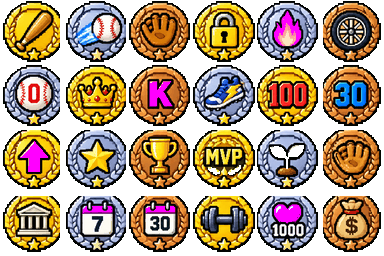
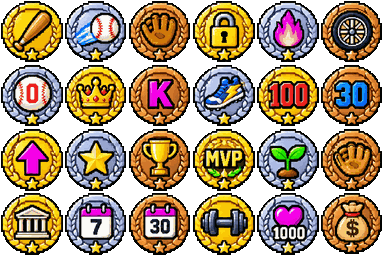
손잡다 야구: 선수마다 정해진 얼굴(경기 상자), 우리 센터 팀 선수 얼굴 꾸미기·사진, 배지 그림 다시 자르기, 캐시 v88
Claude-Session: https://claude.ai/code/session_01AtpkBHbF1Q23UFzgPgc2M4

diff --git a/baseball/js/center.js b/baseball/js/center.js
@@ -32,7 +32,7 @@ function centerHomeScreen(){
     { n:2, t:`줄인 이름: ${c.short}`, s:'점수판과 중계에서 부르는 짧은 이름입니다. 예: 센터', act: v => go(() => textScreen('줄인 이름', c.short, 6, t => { c.short = t; }, centerHomeScreen), v) },
     { n:3, t:`팀 색: ${colorName(c.color)}`, s:'유니폼과 점수판 색입니다.', act: () => { const i = CENTER_COLORS.findIndex(x => x[1] === c.color); c.color = CENTER_COLORS[(i + 1) % CENTER_COLORS.length][1]; stay(`팀 색 ${colorName(c.color)}`); } },
     { n:4, t:`엠블럼: ${c.emblem == null ? '이름 첫 글자' : `${TEAMS[c.emblem].short} 그림`}`, hide: !VIEW.gfx, s:'화면 보며 하기에서 팀 표시로 쓰는 그림입니다.', act: () => { c.emblem = c.emblem == null ? 0 : c.emblem >= 9 ? null : c.emblem + 1; stay(`엠블럼 ${c.emblem == null ? '이름 첫 글자' : TEAMS[c.emblem].short + ' 그림'}`); } },
-    { n:11, key:'embimg', t: c.embImg ? '엠블럼 사진 바꾸기' : '엠블럼 사진 넣기', hide: !VIEW.gfx, s:'갖고 있는 그림 파일을 엠블럼으로 씁니다. 가운데를 정사각형으로 잘라 이 기기에만 저장합니다.', act: () => centerPickImage(c) },
+    { n:11, key:'embimg', t: c.embImg ? '엠블럼 사진 바꾸기' : '엠블럼 사진 넣기', hide: !VIEW.gfx, s:'갖고 있는 그림 파일을 엠블럼으로 씁니다. 가운데를 정사각형으로 잘라 이 기기에만 저장합니다.', act: () => centerPickImage(c, 'embImg', '엠블럼 사진을 넣었습니다.') },
     { n:12, key:'embdel', t:'엠블럼 사진 빼기', hide: !VIEW.gfx || !c.embImg, act: () => { delete c.embImg; stay('엠블럼 사진을 뺐습니다.'); } },
     { n:5, t:`팀 스타일: ${STYLES[c.style].name}`, s: STYLES[c.style].desc, act: () => { const k = Object.keys(STYLES); c.style = k[(k.indexOf(c.style) + 1) % k.length]; stay(`팀 스타일 ${STYLES[c.style].name}`); } },
     { n:6, t:`홈구장: ${parkInfo(c.park).name}`, s: parkInfo(c.park).desc, act: () => { const k = TEAMS.map(t => t.key); c.park = k[(k.indexOf(c.park) + 1) % k.length]; stay(`홈구장 ${parkInfo(c.park).name}`); } },
@@ -44,7 +44,7 @@ function centerHomeScreen(){
   ] };
 }
 // 엠블럼 사진: 파일을 골라 가운데 정사각형을 96×96으로 줄여 저장 (저장하기를 눌러야 반영)
-function centerPickImage(c){
+function centerPickImage(c, field = 'embImg', okMsg = '사진을 넣었습니다.'){
   const inp = document.createElement('input'); inp.type = 'file'; inp.accept = 'image/*';
   inp.onchange = () => {
     const f = inp.files && inp.files[0]; if(!f) return;
@@ -54,8 +54,8 @@ function centerPickImage(c){
       const s = Math.min(im.width, im.height), x = cv.getContext('2d');
       x.imageSmoothingQuality = 'high'; x.drawImage(im, (im.width - s) / 2, (im.height - s) / 2, s, s, 0, 0, S, S);
       URL.revokeObjectURL(url);
-      try{ c.embImg = cv.toDataURL('image/png'); }catch(e){ stay('그림을 읽지 못했습니다.'); return; }
-      stay('엠블럼 사진을 넣었습니다. 저장하기를 눌러 주세요.');
+      try{ c[field] = cv.toDataURL(field === 'photo' ? 'image/jpeg' : 'image/png', 0.85); }catch(e){ stay('그림을 읽지 못했습니다.'); return; }
+      stay(`${okMsg} 저장하기를 눌러 주세요.`);
     };
     im.onerror = () => { URL.revokeObjectURL(url); stay('그림 파일을 열지 못했습니다.'); };
     im.src = url;
@@ -102,6 +102,9 @@ function batEditScreen(i){
     { n:4, t:`치는 손: ${p.hand === 'L' ? '왼손' : '오른손'}`, act: () => { p.hand = p.hand === 'L' ? 'R' : 'L'; stay(`${p.hand === 'L' ? '왼손' : '오른손'} 타자`); } },
     ...BAT_STATS.map(([k, n], j) => ({ n: j + 5, key:k, t:`${n}: ${p[k]}`, act: v => go(() => numScreen(n, k, p, back), v) })),
     { n:10, t:`능력치 한꺼번에: ${(LEVELS.find(l => BAT_STATS.every(([k]) => p[k] === l[1])) || ['직접 정함'])[0]}`, s:'아주 잘함 · 잘함 · 보통 · 조금 약함 · 약함 순서로 바뀝니다.', act: () => { const cur = LEVELS.findIndex(l => BAT_STATS.every(([k]) => p[k] === l[1])), L = LEVELS[(cur + 1) % LEVELS.length]; BAT_STATS.forEach(([k]) => { p[k] = L[1]; }); stay(`능력치 모두 ${L[0]}(${L[1]})`); } },
+    { n:11, key:'face', hide: !VIEW.gfx, t:'얼굴 꾸미기', s:'머리·눈·입·장식을 고릅니다. 고르지 않으면 이름으로 정해진 얼굴입니다.', act: v => go(() => playerLookScreen(p, back), v) },
+    { n:12, key:'photo', hide: !VIEW.gfx, t: p.photo ? '얼굴 사진 바꾸기' : '얼굴 사진 넣기', s:'사진을 넣으면 경기 화면과 기록에 사진이 나옵니다. 이 기기에만 저장합니다.', act: () => centerPickImage(p, 'photo', '얼굴 사진을 넣었습니다.') },
+    { n:13, key:'nophoto', hide: !VIEW.gfx || !p.photo, t:'얼굴 사진 빼기', act: () => { delete p.photo; stay('얼굴 사진을 뺐습니다.'); } },
   ] };
 }
 function pitEditScreen(i){
@@ -112,5 +115,8 @@ function pitEditScreen(i){
     { n:3, t:`보직: ${p.role}`, s:'선발은 길게, 마무리는 경기 끝에 던집니다.', act: () => { p.role = roles[(roles.indexOf(p.role) + 1) % roles.length]; stay(`보직 ${p.role}`); } },
     { n:4, t:`던지는 손: ${p.hand === 'L' ? '왼손' : '오른손'}`, act: () => { p.hand = p.hand === 'L' ? 'R' : 'L'; stay(`${p.hand === 'L' ? '왼손' : '오른손'} 투수`); } },
     ...PIT_STATS.map(([k, n], j) => ({ n: j + 5, key:k, t:`${n}: ${p[k]}${k === 'vel' ? '킬로' : ''}`, act: v => go(() => numScreen(n, k, p, back), v) })),
+    { n:11, key:'face', hide: !VIEW.gfx, t:'얼굴 꾸미기', s:'머리·눈·입·장식을 고릅니다. 고르지 않으면 이름으로 정해진 얼굴입니다.', act: v => go(() => playerLookScreen(p, back), v) },
+    { n:12, key:'photo', hide: !VIEW.gfx, t: p.photo ? '얼굴 사진 바꾸기' : '얼굴 사진 넣기', s:'사진을 넣으면 경기 화면과 기록에 사진이 나옵니다. 이 기기에만 저장합니다.', act: () => centerPickImage(p, 'photo', '얼굴 사진을 넣었습니다.') },
+    { n:13, key:'nophoto', hide: !VIEW.gfx || !p.photo, t:'얼굴 사진 빼기', act: () => { delete p.photo; stay('얼굴 사진을 뺐습니다.'); } },
   ] };
 }

diff --git a/baseball/js/skin.js b/baseball/js/skin.js
@@ -199,8 +199,9 @@ function plateHTML(){
   const B = curBatter(G), P = curPitcher(G), bi = batIdx(G), fi = 1 - bi, s = B.st;
   const left = Math.round(clamp(1 - P.load / P.sta, 0, 1) * 100), col = left > 60 ? 'g' : left > 30 ? 'y' : 'r';
   const ownB = ownTeam(bi);
-  return `<button type="button" class="np np-p" data-sk="stats" aria-label="투수 ${esc(P.name)} 능력치 보기">${emb(G.teams[fi], 'sm')}<span class="np-tx"><small>투수 · ${P.hand === 'L' ? '좌' : '우'} · ${P.n}구</small><b>${esc(P.name)}${P.nick ? ` <i class="nick">${esc(P.nick)}</i>` : ''}</b><span class="sta ${col}"><i style="width:${Math.max(4, left)}%"></i></span></span></button>
-    <button type="button" class="np np-b" data-sk="stats" aria-label="타자 ${esc(B.name)} 능력치 보기">${emb(G.teams[bi], 'sm')}<span class="np-tx"><small>${batTeam(G).bi + 1}번 · ${B.hand === 'L' ? '좌타' : '우타'}${B.cond && (ownB || B.seen) ? ` <em class="${B.cond > 0 ? 'up' : 'dn'}">${B.cond > 0 ? '▲' : '▼'}</em>` : ''}</small><b>${esc(B.name)}${B.nick ? ` <i class="nick">${esc(B.nick)}</i>` : ''}</b><span class="np-st">${s.ab}타수 ${s.h}안타${s.hr ? ` · ${s.hr}홈런` : ''}</span></span></button>`;
+  const face = (X, ti) => typeof playerFace === 'function' ? playerFace(X, G.teams[ti].key, 'np-f') : emb(G.teams[ti], 'sm');   // 선수마다 정해진 얼굴(팀 모자)
+  return `<button type="button" class="np np-p" data-sk="stats" aria-label="투수 ${esc(P.name)} 능력치 보기">${face(P, fi)}<span class="np-tx"><small>투수 · ${P.hand === 'L' ? '좌' : '우'} · ${P.n}구</small><b>${esc(P.name)}${P.nick ? ` <i class="nick">${esc(P.nick)}</i>` : ''}</b><span class="sta ${col}"><i style="width:${Math.max(4, left)}%"></i></span></span></button>
+    <button type="button" class="np np-b" data-sk="stats" aria-label="타자 ${esc(B.name)} 능력치 보기">${face(B, bi)}<span class="np-tx"><small>${batTeam(G).bi + 1}번 · ${B.hand === 'L' ? '좌타' : '우타'}${B.cond && (ownB || B.seen) ? ` <em class="${B.cond > 0 ? 'up' : 'dn'}">${B.cond > 0 ? '▲' : '▼'}</em>` : ''}</small><b>${esc(B.name)}${B.nick ? ` <i class="nick">${esc(B.nick)}</i>` : ''}</b><span class="np-st">${s.ab}타수 ${s.h}안타${s.hr ? ` · ${s.hr}홈런` : ''}</span></span></button>`;
 }
 // 결과 한 줄: 뜸 들이는 동안은 앞부분(투구 설명)만
 function tickHTML(S){
@@ -452,7 +453,7 @@ function timingEnd(tm){
 /* ---------- 메뉴 화면 ---------- */
 function topHTML(S){
   const fsOn = typeof FS !== 'undefined' && FS.on(), canFs = typeof isStandalone === 'function' && !isStandalone();
-  const CRT = { 'setup':'경기 설정', 'lg-home':'리그', 'ar-home':'기록실', 'ar-show': S.title || '기록실', 'cr-shop2':'스포츠 용품점', 'cr-coach':'특별 코치 레슨', 'sc-show':'일정과 결과', 'cr-bag2':'내 가방', 'lg-setup':'새 리그', 'wz-1':'선수 만들기', 'wz-2':'선수 만들기', 'wz-3':'선수 만들기', 'team-pick':'팀 고르기', 'cr-look':'얼굴 꾸미기', 'as-home':'올스타 휴식기', 'as-derby':'홈런 더비', 'fo-home':'구단 사무실', 'fo-list':'구단 사무실', 'cr-camp':'스프링캠프', 'ct-home':'우리 센터 팀', 'ct-list':'선수 고르기', 'ct-player':'선수 고치기', 'ct-num':'능력치', 'cr-home':'라커룸', 'cr-visit':'마을', 'cr-train':'훈련', 'cr-bag':'내 가방', 'cr-info':'내 선수', 'cr-face':'얼굴 고르기', 'cr-log':'업적과 경력', 'cr-game':'오늘 경기' };
+  const CRT = { 'setup':'경기 설정', 'lg-home':'리그', 'ar-home':'기록실', 'ar-show': S.title || '기록실', 'cr-shop2':'스포츠 용품점', 'cr-coach':'특별 코치 레슨', 'sc-show':'일정과 결과', 'cr-bag2':'내 가방', 'lg-setup':'새 리그', 'wz-1':'선수 만들기', 'wz-2':'선수 만들기', 'wz-3':'선수 만들기', 'team-pick':'팀 고르기', 'cr-look':'얼굴 꾸미기', 'pl-look':'선수 얼굴 꾸미기', 'as-home':'올스타 휴식기', 'as-derby':'홈런 더비', 'fo-home':'구단 사무실', 'fo-list':'구단 사무실', 'cr-camp':'스프링캠프', 'ct-home':'우리 센터 팀', 'ct-list':'선수 고르기', 'ct-player':'선수 고치기', 'ct-num':'능력치', 'cr-home':'라커룸', 'cr-visit':'마을', 'cr-train':'훈련', 'cr-bag':'내 가방', 'cr-info':'내 선수', 'cr-face':'얼굴 고르기', 'cr-log':'업적과 경력', 'cr-game':'오늘 경기' };
   if(S.kind === 'cr-talk') CRT['cr-talk'] = S.who === 'gm' ? '연봉 계약' : S.who === 'agent' ? 'FA 시장' : '이벤트!';
   const title = S.hero ? '' : S.onTab ? '설정' : CRT[S.kind] || S.skTitle || menuTitle(S).title;   // 새 화면은 S.skTitle로 제목을 정할 수 있음
   return `<div class="bar">${S.back ? `<button type="button" class="rb" data-sk="back" aria-label="뒤로">${skIco('back')}</button>` : ''}

diff --git a/baseball/sw.js b/baseball/sw.js
@@ -1,6 +1,6 @@
-const CACHE = 'baseball-v87';
+const CACHE = 'baseball-v88';
 const CORE = ['./', './index.html', './manifest.webmanifest', './icon-192.png', './icon-512.png', './icon-maskable-512.png',
-  './css/app.css', './css/skin.css', './img/index.json', ...['bg-pitch', 'bg-field', 'pitcher', 'batter', 'catcher', 'fielder', 'banners', 'banners2', 'umpire', 'umpire-s', 'runner', 'tv', 'fielder2', 'runner-s', 'fielder-set', 'run-g', 'run-b', 'slide', 'run-f', 'run-k', 'cr-cage', 'cr-gym', 'cr-bullpen', 'cr-track', 'cr-room', 'cr-shop', 'cr-fansign', 'cr-rehab', 'cr-train', 'cr-life', 'cr-people', 'cr-props', 'icons', 'icons2', 'bg-pitch-n', 'bg-field-n', 'emblems', 'faces', 'cr-people2', 'cr-office', 'cr-camp', 'cr-stage', 'icons-menu', 'icons-play', 'awards', 'items', 'banners3', 'logo', 'hero', 'cr-town', 'cr-locker', 'cr-beach', 'icons-train', 'cr-parts'].map(n => './img/' + n + '.png'),
+  './css/app.css', './css/skin.css', './img/index.json', ...['bg-pitch', 'bg-field', 'pitcher', 'batter', 'catcher', 'fielder', 'banners', 'banners2', 'umpire', 'umpire-s', 'runner', 'tv', 'fielder2', 'runner-s', 'fielder-set', 'run-g', 'run-b', 'slide', 'run-f', 'run-k', 'cr-cage', 'cr-gym', 'cr-bullpen', 'cr-track', 'cr-room', 'cr-shop', 'cr-fansign', 'cr-rehab', 'cr-train', 'cr-life', 'cr-people', 'cr-props', 'icons', 'icons2', 'bg-pitch-n', 'bg-field-n', 'emblems', 'faces', 'cr-people2', 'cr-office', 'cr-camp', 'cr-stage', 'icons-menu', 'icons-play', 'awards', 'items', 'banners3', 'logo', 'hero', 'cr-town', 'cr-locker', 'cr-beach', 'icons-train', 'cr-parts', 'trophies', 'badges', 'cr-cabinet', 'cr-award', 'weather', 'wbands', 'cutin'].map(n => './img/' + n + '.png'),
   './js/util.js', './js/data.js', './js/engine.js', './js/playsim.js', './js/timeline.js', './js/ai.js', './js/league.js', './js/speech.js', './js/caster.js', './js/shell.js', './js/ui.js', './js/gfx.js', './js/net.js', './js/voice.js', './js/game.js', './js/manager.js', './js/league-ui.js', './js/office.js', './js/office-ui.js', './js/allstar.js', './js/career-grow.js', './js/career.js', './js/career-life.js', './js/career-story.js', './js/career-trust.js', './js/online.js', './js/center.js', './js/setup.js', './js/skin.js', './js/skin-career.js', './js/look.js', './js/skin-setup.js', './js/skin-hub.js', './js/app.js',
   './vendor/firebase-app.js', './vendor/firebase-auth.js', './vendor/firebase-database.js',
   ...['pitch', 'ball', 'strike', 'whiff-p', 'whiff-p2', 'whiff-n', 'whiff-n2', 'whiff-c', 'whiff-c2', 'bat1', 'bat2', 'bat3', 'bat-big', 'foul', 'hit', 'double', 'triple', 'homer', 'out', 'strikeout', 'change', 'batter', 'atbat', 'pitcher', 'mound', 'organ', 'crowd', 'cheer1', 'cheer2', 'hit-nb', 'double-nb', 'triple-nb', 'foul-nb', 'out-nb'].map(n => './sfx/' + n + '.mp3')];

diff --git a/baseball/js/skin-setup.js b/baseball/js/skin-setup.js
@@ -98,6 +98,14 @@ function crLookSkin(S){
     <div class="su-r"><div class="su panel">${lookEditor(S.draft(), col)}</div></div>`;
 }
 
+/* ---------- 우리 센터 팀 선수 얼굴 꾸미기 ---------- */
+function plLookSkin(S){
+  const c = typeof CE !== 'undefined' && CE.c, col = c ? c.color : '#3b82f6', p = S.who;
+  return `<div class="su-l"><div class="wz-top one"><div class="wz-card" style="--tc:${col}">${crFace(S.draft(), col, 'big', 'center')}<div class="wz-jer" aria-hidden="true"><span class="wz-nm">${esc(p.name)}</span><b>${esc(p.nick || '')}</b></div></div></div>
+    ${suGo(suOpt(S, 'done'), '고른 얼굴로 바꾸기')}</div>
+    <div class="su-r"><div class="su panel">${lookEditor(S.draft(), col)}</div></div>`;
+}
+
 /* ---------- 팀 고르기 (눌러 고르고 "이 팀으로") ---------- */
 function teamPickSkin(S){
   const teams = (S.opts || []).filter(o => o.key && !o.hide), sel = teams.find(o => o.key === TSEL) || teams[0];
@@ -109,7 +117,7 @@ function teamPickSkin(S){
     <button type="button" class="crplay su-go" data-sk="opt" data-n="${sel.n}"><span class="pp">▶</span><span><b>이 팀으로</b><small>${esc(T.name)}</small></span></button>`;
 }
 
-Object.assign(CAREER_SK, { 'lg-setup':lgSetupSkin, 'wz-1':wz1Skin, 'wz-2':wz2Skin, 'wz-3':wz3Skin, 'team-pick':teamPickSkin, 'cr-look':crLookSkin });
+Object.assign(CAREER_SK, { 'lg-setup':lgSetupSkin, 'wz-1':wz1Skin, 'wz-2':wz2Skin, 'wz-3':wz3Skin, 'team-pick':teamPickSkin, 'cr-look':crLookSkin, 'pl-look':plLookSkin });
 
 // 이름 칸: 적는 동안 다시 그리지 않고(글자판이 닫히지 않게) 카드의 이름과 "다음" 단추만 고침
 if(typeof document !== 'undefined'){

diff --git a/baseball/js/engine.js b/baseball/js/engine.js
@@ -140,11 +140,11 @@ function makeBench(G, S, b, bias){
 const centerSta = (v, starter) => starter ? Math.round(60 + v * 0.56) : Math.round(18 + v * 0.28);
 function centerBatter(G, S, c, slot){
   const b = makeBatter(G, S, slot, 0);
-  return { ...b, name: c.name || b.name, nick: c.nick || '', pos: c.pos || b.pos, hand: c.hand || b.hand, con: c.con ?? b.con, pow: c.pow ?? b.pow, eye: c.eye ?? b.eye, spd: c.spd ?? b.spd, def: c.def ?? b.def };
+  return { ...b, name: c.name || b.name, nick: c.nick || '', ...(c.look ? { look: c.look } : {}), ...(c.photo ? { photo: c.photo } : {}), pos: c.pos || b.pos, hand: c.hand || b.hand, con: c.con ?? b.con, pow: c.pow ?? b.pow, eye: c.eye ?? b.eye, spd: c.spd ?? b.spd, def: c.def ?? b.def };
 }
 function centerPitcher(G, S, c, starter){
   const p = makePitcher(G, S, starter, 0);
-  return { ...p, name: c.name || p.name, nick: c.nick || '', hand: c.hand || p.hand, vel: c.vel ?? p.vel, ctl: c.ctl ?? p.ctl, stf: c.stf ?? p.stf, sta: c.sta != null ? centerSta(c.sta, starter) : p.sta };
+  return { ...p, name: c.name || p.name, nick: c.nick || '', ...(c.look ? { look: c.look } : {}), ...(c.photo ? { photo: c.photo } : {}), hand: c.hand || p.hand, vel: c.vel ?? p.vel, ctl: c.ctl ?? p.ctl, stf: c.stf ?? p.stf, sta: c.sta != null ? centerSta(c.sta, starter) : p.sta };
 }
 function makeTeam(G, key, bias){
   if(key === 'center' && CENTER) return makeCenterTeam(G);

diff --git a/baseball/js/setup.js b/baseball/js/setup.js
@@ -46,6 +46,17 @@ function careerLookScreen(back){
     ] };
 }
 
+/* ---------- 우리 센터 팀 선수 얼굴 꾸미기: 고른 뒤 "바꾸기"를 눌러야 정해짐 (팀 저장은 저장하기) ---------- */
+function playerLookScreen(p, back){
+  if(!LOOK_DRAFT) LOOK_DRAFT = lookFix(playerLook(p));
+  return { kind:'pl-look', who: p, q:`${p.name} 선수의 얼굴을 꾸미세요. 다 되면 바꾸기를 누르세요.`, draft: () => LOOK_DRAFT,
+    set: (k, v) => { LOOK_DRAFT = lookSet(LOOK_DRAFT, k, v); },
+    back: v => { LOOK_DRAFT = null; go(back, v); }, opts:[
+      { n:1, key:'rand', t:'무작위로 꾸미기', act: () => { LOOK_DRAFT = lookRandom(); stay('얼굴을 새로 꾸몄습니다.'); } },
+      { n:9, key:'done', t:'바꾸기', act: v => { p.look = { ...LOOK_DRAFT, hat:0 }; LOOK_DRAFT = null; go(back, v, ['얼굴을 바꿨습니다. 저장하기를 눌러야 팀에 저장됩니다.']); } },
+    ] };
+}
+
 /* ---------- 선수 만들기 (세 단계) ---------- */
 const FORMS = ['오버핸드', '사이드암', '언더핸드'];
 const BAT_POS9 = ['C', '1B', '2B', '3B', 'SS', 'LF', 'CF', 'RF', 'DH'];

diff --git a/baseball/tests/skin.js b/baseball/tests/skin.js
@@ -131,7 +131,7 @@ const PORT = 8767;
     if(!made || made.join() !== `시험선수,6,2,18,L,2,불펜,break,${t5}`) errors.push(`${tag}: 선수 만들기 결과가 다름 ${JSON.stringify(made)}`);
     if(await page.evaluate(() => armSlot(CR().career.p)) !== 2) errors.push(`${tag}: 투구 폼이 경기 그림에 쓰이지 않음`);
     // 내 선수 화면에서 얼굴 꾸미기: 고르기만 하면 그대로, "바꾸기"를 눌러야 저장
-    await page.evaluate(() => go(careerInfoScreen, 'click')); await page.click('#sk [data-sk="opt"][data-n="3"]');
+    await page.evaluate(() => { CR().career.look.hat = 0; go(careerInfoScreen, 'click'); }); await page.click('#sk [data-sk="opt"][data-n="3"]');
     if(await kind() !== 'cr-look') errors.push(`${tag}: 얼굴 꾸미기 화면이 아님 ${await kind()}`);
     await page.click('[data-k="lt"][data-v="hat"]'); await page.click('[data-k="lk"][data-v="2"]'); await fit('얼굴 꾸미기');
     if(await page.evaluate(() => CR().career.look.hat) === 2) errors.push(`${tag}: 바꾸기 전에 얼굴이 저장됨`);

diff --git a/baseball/css/skin.css b/baseball/css/skin.css
@@ -1014,3 +1014,5 @@ html.skin .sg{ font-size:.82rem; padding:3px 8px; } html.skin .sg strong{ font-s
   html.skin .k-ct-home .cards.sets{ grid-template-columns:repeat(3, minmax(0, 1fr)); } html.skin .k-ct-home .card.row{ min-height:2.4rem; padding:.3rem .5rem; } html.skin .k-ct-home .card.row small{ display:none; }
 }
 html.skin .hb-b{ align-items:center; }
+html.skin .crf.pic{ background-size:cover !important; background-position:center !important; border-radius:22%; box-shadow:0 0 0 2px #fff, 0 2px 0 rgba(0,0,0,.3); }
+html.skin .crf.np-f{ width:2.4rem; height:2.4rem; flex:none; margin:-4px 0 -4px -4px; }

diff --git a/baseball/js/look.js b/baseball/js/look.js
@@ -143,6 +143,7 @@ function playerLook(p){
     acc: pick(10) < 7 ? -1 : [0, 2, 4, 5, 6][pick(5)], hat: 0 });
 }
 function playerFace(p, teamKey, cls = ''){
+  if(p && p.photo) return `<span class="crf lk-f pic ${cls}" style="background-image:url(${p.photo})" aria-hidden="true"></span>`;   // 우리 센터 팀 선수 사진
   const T = typeof teamInfo === 'function' && teamKey ? teamInfo(teamKey) : null;
   return typeof crFace === 'function' ? crFace(playerLook(p), T ? T.color : '#3b82f6', cls, teamKey) : '';
 }
